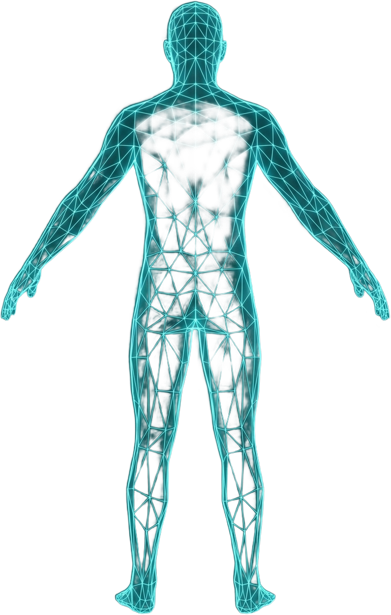
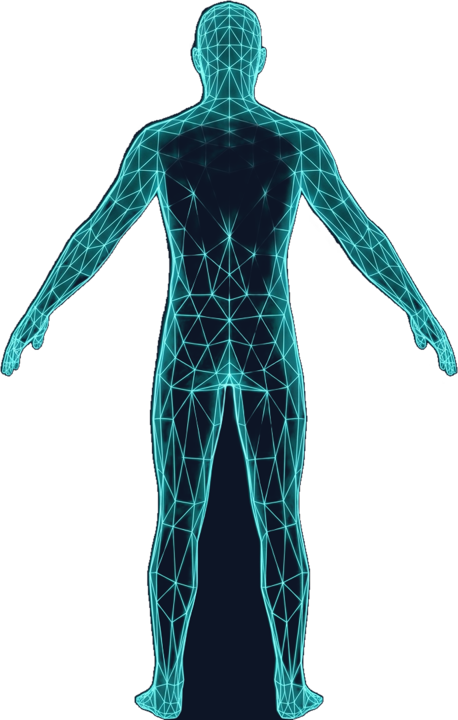
Mapa de inyección: fondo BLANCO (card), interior del modelo oscuro para que el wireframe teal se vea (como pediste). Horneé un relleno navy oscuro DENTRO de la silueta de cada figura (con flood-fill para tapar huecos del recorte) y dejé el exterior transparente → en la card blanca queda la figura os

diff --git a/src/components/InjectionMap.tsx b/src/components/InjectionMap.tsx
@@ -42,7 +42,7 @@ const LEGEND: LegendItem[] = [
   { color: 'var(--error)', label: '< 1 día' },
   { color: 'var(--warning)', label: '< 2 días' },
   { color: 'var(--success)', label: '< 3 días' },
-  { color: 'rgba(255,255,255,0.4)', label: 'Sin uso reciente' },
+  { color: 'var(--ink-300)', label: 'Sin uso reciente' },
 ]
 
 function relLabel(ts: number | null): string {
@@ -93,7 +93,7 @@ export function InjectionMap({ zones }: { zones: Record<InjectionSite, ZoneInfo>
         <img src={img} alt={label} style={{ height: 226, width: 'auto', maxWidth: '100%', display: 'block' }} />
         {markers.map(renderMarker)}
       </div>
-      <span aria-hidden="true" style={{ marginTop: 4, fontSize: 10, letterSpacing: '0.06em', color: 'rgba(255,255,255,0.55)' }}>{label}</span>
+      <span aria-hidden="true" style={{ marginTop: 4, fontSize: 10, letterSpacing: '0.06em', color: 'var(--ink-400)' }}>{label}</span>
     </div>
   )
 
@@ -108,14 +108,13 @@ export function InjectionMap({ zones }: { zones: Record<InjectionSite, ZoneInfo>
         Mapa de inyección
       </figcaption>
 
-      {/* panel con el degradado oscuro de marca: el wireframe teal (transparente) resalta sobre él */}
+      {/* fondo blanco de la card; el interior de cada figura va horneado en oscuro para que el wireframe teal se vea */}
       <div
         role="group"
         aria-labelledby={titleId}
         style={{
-          display: 'flex', gap: 6, justifyContent: 'center', alignItems: 'flex-end',
-          background: 'linear-gradient(160deg, #1f2937, #0f172a)',
-          borderRadius: 'var(--r-md)', padding: '14px 8px 8px',
+          display: 'flex', gap: 8, justifyContent: 'center', alignItems: 'flex-end',
+          padding: '4px 0 0',
         }}
       >
         {renderFigure(frontImg, 'FRENTE', FRONT_MARKERS)}